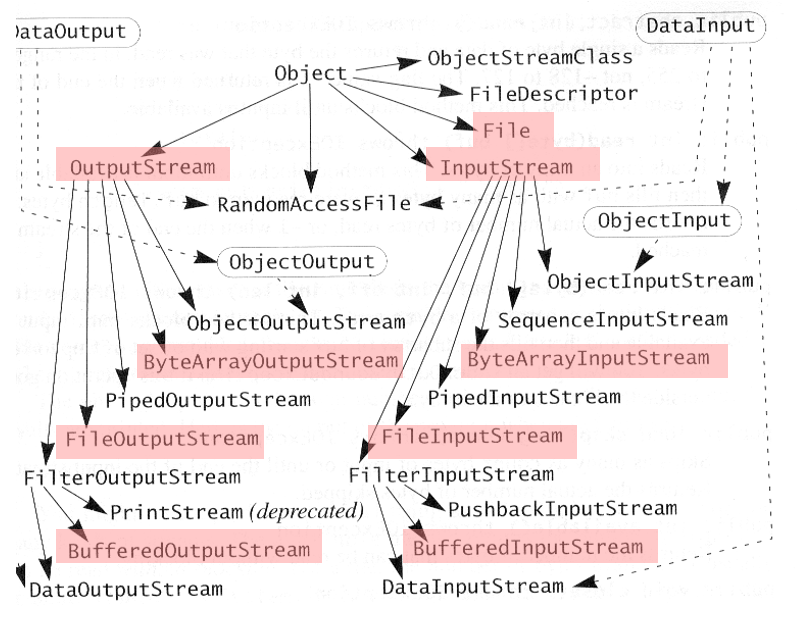
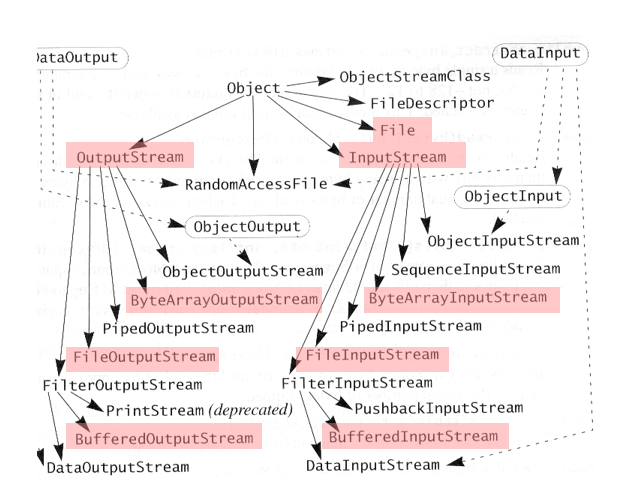
improved images

diff --git a/slides/collections.md b/slides/collections.md
@@ -6,7 +6,7 @@
 - Les collections sont définies par une série d'interfaces en décrivant le comportement (Set, List et Map principalement)
 - Java dispose de plusieurs implémentations de ces interfaces selon l'usage envisagé.
 
-![Collections](/images/collections.png){style="width: 50%;"}
+![Collections](/images/collections.png){.block .mx-auto .w-1/2}
 
 ---
 
@@ -88,7 +88,7 @@
 ---
 
 # Les Collections
-## Exemples
+Exemples
 
 - Interface java.util.Collection&lt;T&gt;:
   
@@ -111,7 +111,7 @@ List<T> subList(int fromIndex, int toIndex)
 ---
 
 # Les Collections
-## Exemples
+Exemples
 
 - Interface java.util.Map&lt;K,V&gt;:
 
@@ -133,7 +133,6 @@ Collection<V> values() //retourne l’ensemble des valeurs de la Map
 
 ````md magic-move {lines: true}
 ```java
-// step 1
 import java.util.List;
 import java.util.ArrayList;
 
@@ -143,7 +142,6 @@ java.util.List<String> liste = new java.util.ArrayList<String>();
 ```
 
 ```java
-// step 2
 import java.util.List;
 import java.util.ArrayList;
 
@@ -176,7 +174,6 @@ liste.clear();
 
 ````md magic-move {lines: true}
 ```java
-// step 1
 import java.util.Map;
 import java.util.HashMap;
 
@@ -186,7 +183,6 @@ java.util.Map<String> myMap = new new java.util.HashMap<String,String>();
 ```
 
 ```java
-// step 2
 import java.util.Map;
 import java.util.HashMap;
 
@@ -218,7 +214,7 @@ myMap.remove("clef2") //enlève l'élément ayant la clé spécifiée
 ---
 
 # Les Collections
-## Parcours
+Parcours
 
 L'interface _java.util.Iterator&lt;T&gt;_ permet de parcourir une _java.util.Collection&lt;T&gt;_ simplement et éventuellement de modifier celle-ci en cours de parcours.
 
@@ -237,7 +233,7 @@ while(it.hasNext())
 ---
 
 # Les Collections
-## Parcours
+Parcours
 
 En pratique on préfère souvent cette structure de boucle for qui permet de parcourir encore plus simplement n'importe quel objet implémentant l'interface _Iterable_
 
@@ -258,7 +254,7 @@ for(String element : liste)
 ---
 
 # Les Collections
-## Tri
+Tri
 
 Il existe plusieurs façons d'obtenir une collection triée:
 Soit les objets dans la collection implémentent _java.lang.Comparable_:
@@ -283,7 +279,7 @@ Le package _java.util.collections_ contient beaucoup d'autres méthodes utilitai
 ---
 
 # Les Collections
-## Tri
+Tri
 
 L'interface _java.lang.Comparable_ est implémentée par de nombreux objets Java (String,…)
 
@@ -304,10 +300,9 @@ public int compareTo(Object o) throws ClassCastException;
 ---
 
 # Les Collections
-## Tri
+Tri
 
-L'interface java.util.Comparator&lt;T&gt; 
-Permet de comparer des objets n'implémentant pas _java.lang.Comparable_ en implémentant soi-même l'algorithme de comparaison (l'algorithme de tri est lui déjà implémenté dans le JDK)
+L'interface java.util.Comparator&lt;T&gt; permet de comparer des objets n'implémentant pas _java.lang.Comparable_ en implémentant soi-même l'algorithme de comparaison (l'algorithme de tri est lui déjà implémenté dans le JDK)
 
 ```java
 public interface Comparator<T>
@@ -332,7 +327,7 @@ public boolean equals(Object o);
 ---
 
 # Les Collections
-## Tri
+Tri
 
 La méthode int compare(T o1, T o2) doit être implémentée de sorte que:
 
@@ -349,7 +344,7 @@ Le sens de "supérieur" ou "inférieur" dépend du contexte métier:
 ---
 
 # Les Collections
-## Tri - Exemple Concret
+Tri - Exemple Concret
 
 Soit la classe Point:
 
@@ -382,7 +377,7 @@ public int compare(Point p1, Point p2) {
 ---
 
 # Les Collections
-## Tri - Exemple Concret
+Tri - Exemple Concret
 
 Tri d'une List&lt;Point&gt;
 
@@ -429,7 +424,7 @@ for(Point p : lst){
 ---
 
 # Les Collections
-## Fonctionnement de contains(Object o)
+Fonctionnement de contains(Object o)
 
 - La méthode _contains(Object o)_ invoque _equals()_ sur tous les objets de la collection.
 - L’implémentation de _equals()_ n’est correcte que pour les types standards (String, Integer),… son implémentation par défaut dans _Object_ compare les références en mémoire (et non l’identité des objets).

diff --git a/slides/pf_java.md b/slides/pf_java.md
@@ -1,20 +1,20 @@
 
 # La Plafeforme Java
-## Adaptée à chaque usage
+Adaptée à chaque usage
 
 ![La PF Java](/images/pfJava.png){style="width: 65%;"}
 
 ---
 
 # La Plafeforme Java
-## JavaSE
+JavaSE
 
 ![JavaSE](/images/javaSE.png){style="width: 65%;"}
 
 ---
 
 # La Plafeforme Java
-## JavaEE
+JavaEE
 
   - Dédiée au développement Serveur (middleware en particulier)
   - JavaSE enrichie des Servlets, JSP, Enterprise JavaBeans et services associés.
@@ -26,7 +26,7 @@
 ---
 
 # La Plafeforme Java
-## JavaEE
+JavaEE
 
   - JavaEE enrichit JavaSE comme indiqué ci-dessous:
   

diff --git a/slides/io.md b/slides/io.md
@@ -35,7 +35,7 @@ De nombreuses classes adaptées à chaque besoin.
 
 # Les I/O - flux binaires
 
-  ![streams](/images/streams.png){style="width: 65%;"}
+  ![streams](/images/streams.png){.block .mx-auto .w-2/3}
 
 ---
 
@@ -87,7 +87,7 @@ Ces opérations sont susceptibles de lancer une _IOExceptions_ ➩ besoin d'un b
 
 # Les I/O - Flux de caractères
 
-  ![streams](/images/writers.png){style="width: 68%;"}
+  ![streams](/images/writers.png){.block .mx-auto .w-2/3}
 
 ---
 

diff --git a/slides/exceptions.md b/slides/exceptions.md
@@ -25,7 +25,8 @@
 
 # Qu'est-ce qu'une Exception?
 
-![Exceptions](/images/exceptions.png){style="width: 65%;"}
+
+![Exceptions](/images/exceptions.png){.block .mx-auto .w-1/2}
 
 - On doit traiter (catch) ou propager (throws) les Checked Exceptions
 
@@ -103,6 +104,7 @@ try{
     
 ---
 
-# Exceptions: Le mécanisme
+# Exceptions
+Le mécanisme
 
-![Exceptions](/images/exceptions_anim.png){style="width: 100%;"} 
+![Exceptions](/images/exceptions_anim.png){.block .mx-auto } 

diff --git a/slides/annotations.md b/slides/annotations.md
@@ -1,4 +1,3 @@
-
 # Les Annotations
 
 - Apparues avec Java 5
@@ -73,5 +72,3 @@ private String nom;
 private JPEG photo;
 }
 ```
-
-**Configure automatiquement le service de persistance et crée la base de données.**
